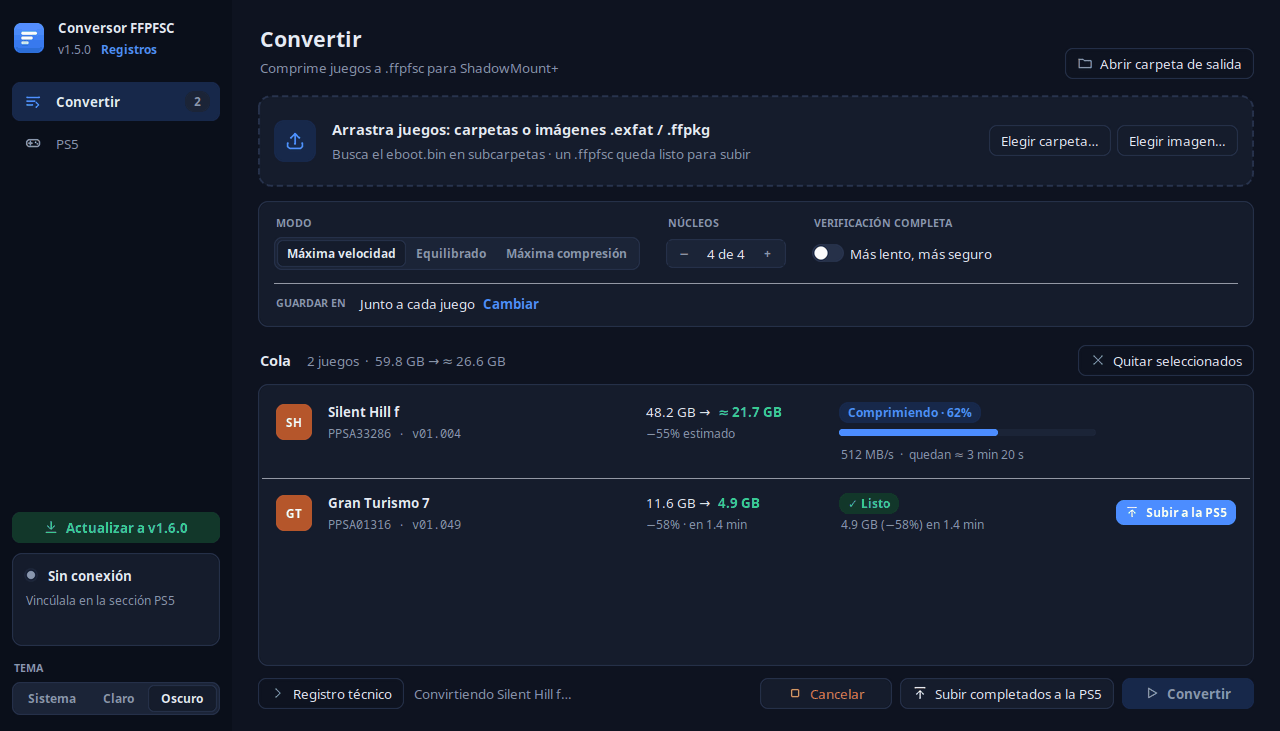
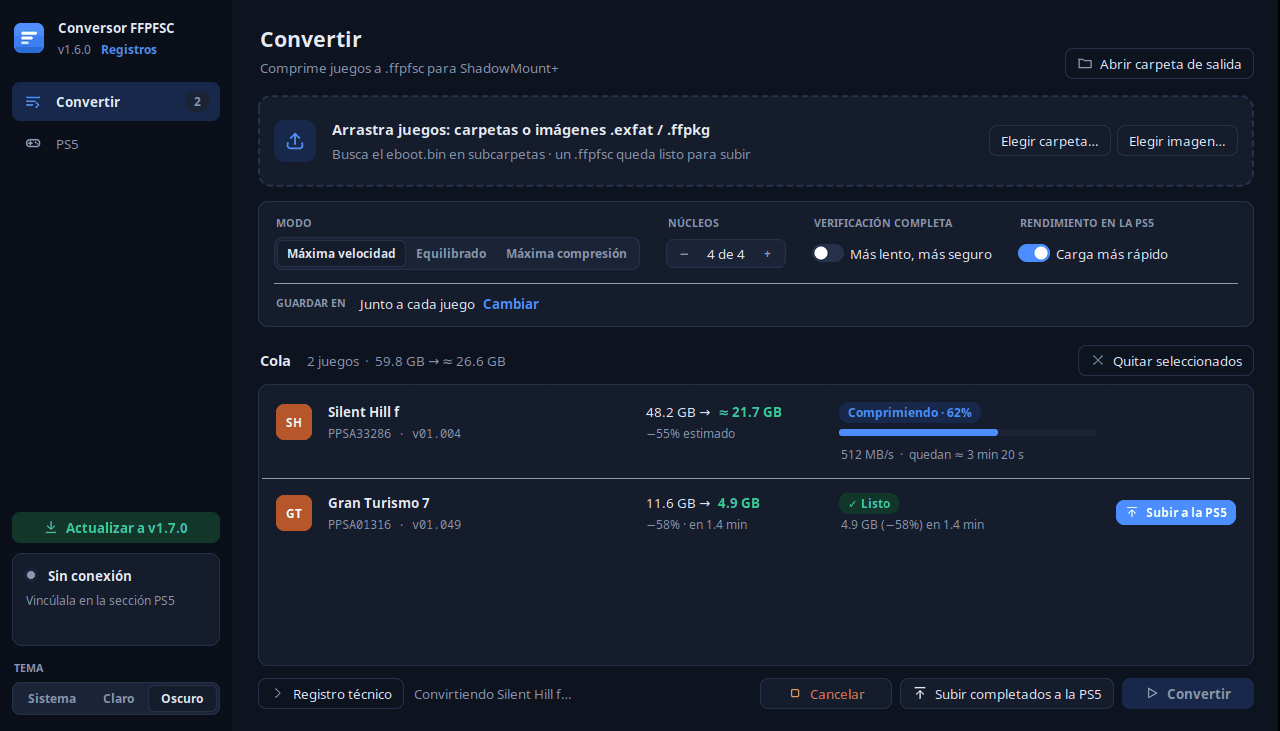
chore(release): v1.6.0
- Versión 1.6.0 en __init__.py, la insignia del README y los ejemplos de
  las docstrings.
- CHANGELOG: «Rendimiento en la PS5» y las opciones en varias líneas pasan a
  [1.6.0] - 2026-10-11.
- Capturas del README con la versión 1.6.0 y la opción nueva.

Changed region(s): [[0.7812, 0.301, 0.9062, 0.3611]]

diff --git a/src/ffpfsc_converter/ui/presenters.py b/src/ffpfsc_converter/ui/presenters.py
@@ -27,7 +27,7 @@ def version_text(version: str = __version__) -> str:
         version (str): Versión en formato SemVer; por defecto, la instalada.
 
     Returns:
-        str: Versión con prefijo, por ejemplo ``"v1.5.0"``.
+        str: Versión con prefijo, por ejemplo ``"v1.6.0"``.
     """
     return f"v{version}"
 
@@ -39,7 +39,7 @@ def window_title(version: str = __version__) -> str:
         version (str): Versión en formato SemVer; por defecto, la instalada.
 
     Returns:
-        str: Por ejemplo ``"Conversor FFPFSC (PS5) — v1.5.0"``.
+        str: Por ejemplo ``"Conversor FFPFSC (PS5) — v1.6.0"``.
     """
     return f"{APP_TITLE} — {version_text(version)}"
 

diff --git a/src/ffpfsc_converter/ui/shell.py b/src/ffpfsc_converter/ui/shell.py
@@ -84,7 +84,7 @@ class AppShell(ttk.Frame):
         Args:
             root (tk.Misc): Ventana raíz.
             theme (ThemeManager): Tema.
-            version (str): Versión de la app (por ejemplo ``"v1.5.0"``).
+            version (str): Versión de la app (por ejemplo ``"v1.6.0"``).
         """
         super().__init__(root, style="TFrame")
         self._theme = theme

diff --git a/src/ffpfsc_converter/__init__.py b/src/ffpfsc_converter/__init__.py
@@ -4,4 +4,4 @@ Interfaz gráfica sobre MkPFS (https://github.com/PSBrew/MkPFS), configurada
 para máxima velocidad usando todos los núcleos de la CPU.
 """
 
-__version__ = "1.5.0"
+__version__ = "1.6.0"

diff --git a/README.md b/README.md
@@ -8,7 +8,7 @@
 
 **Carpeta de juego · `.exfat` · `.ffpkg` &nbsp;→&nbsp; `.ffpfsc`**
 
-[![Versión](https://img.shields.io/badge/versión-1.5.0-6366f1?style=for-the-badge)](CHANGELOG.md)
+[![Versión](https://img.shields.io/badge/versión-1.6.0-6366f1?style=for-the-badge)](CHANGELOG.md)
 [![Python](https://img.shields.io/badge/Python-3.10+-3776AB?style=for-the-badge&logo=python&logoColor=white)](https://www.python.org/)
 [![Linux](https://img.shields.io/badge/Linux-FCC624?style=for-the-badge&logo=linux&logoColor=black)](#-instalación)
 [![Windows](https://img.shields.io/badge/Windows-10%20%7C%2011-0078D6?style=for-the-badge&logo=windows&logoColor=white)](#-instalación)

diff --git a/CHANGELOG.md b/CHANGELOG.md
@@ -5,6 +5,8 @@ el proyecto usa [Versionado Semántico](https://semver.org/lang/es/).
 
 ## [Sin publicar]
 
+## [1.6.0] - 2026-10-11
+
 ### Añadido
 - Opción **Rendimiento en la PS5** (vista Convertir y «Comprimir y reemplazar»):
   MkPFS solo guarda comprimidos los bloques que se reducen al menos un 20 %
